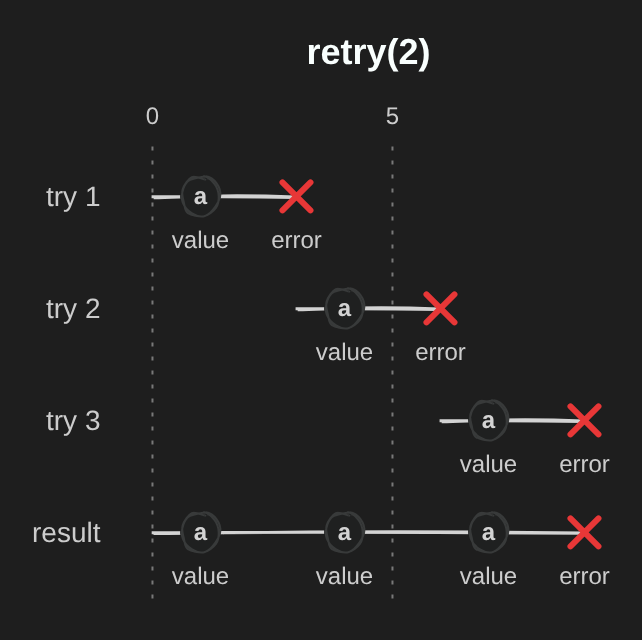
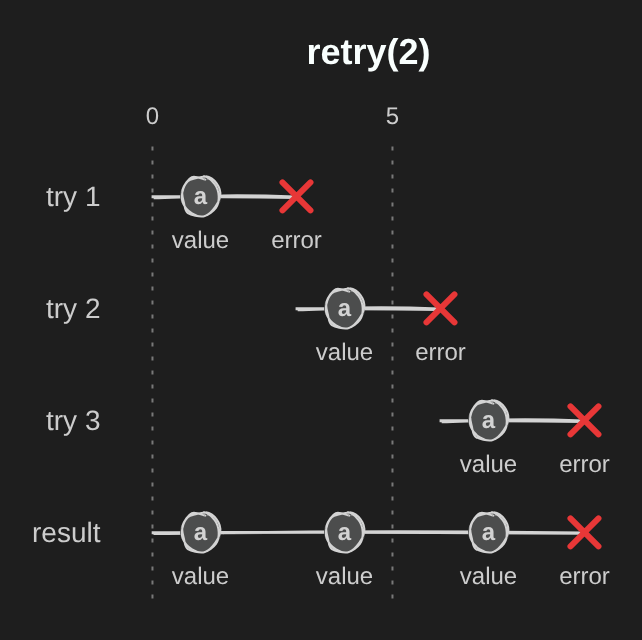
docs(mermaid-preview): dark-theme marble fix
Claude-Session: https://claude.ai/code/session_01LRXjgNtKDJKuSAHEsU1djV

diff --git a/docs/mermaid-preview/README.md b/docs/mermaid-preview/README.md
@@ -1,6 +1,6 @@
 # marble-beta previews
 
-Rendered from branch `feature/marble-diagram` (mermaid sha 8d24d80d, `packages/mermaid/dist/mermaid.min.js`) in headless Chromium via Playwright, deviceScaleFactor 2, cropped to the SVG. Each example appears as written, then as `--dark` (theme: dark) and `--hand-drawn` (look: handDrawn, handDrawnSeed: 1) unless its source already sets that. Every `<name>.png` sits next to `<name>.mmd`, the exact source rendered, which is also shown under each image.
+Rendered from branch `feature/marble-diagram` (mermaid sha eff0b00d, `packages/mermaid/dist/mermaid.min.js`) in headless Chromium via Playwright, deviceScaleFactor 2, cropped to the SVG. Each example appears as written, then as `--dark` (theme: dark) and `--hand-drawn` (look: handDrawn, handDrawnSeed: 1) unless its source already sets that. Every `<name>.png` sits next to `<name>.mmd`, the exact source rendered, which is also shown under each image.
 
 ## should-render-a-simple-marble-diagram
 
